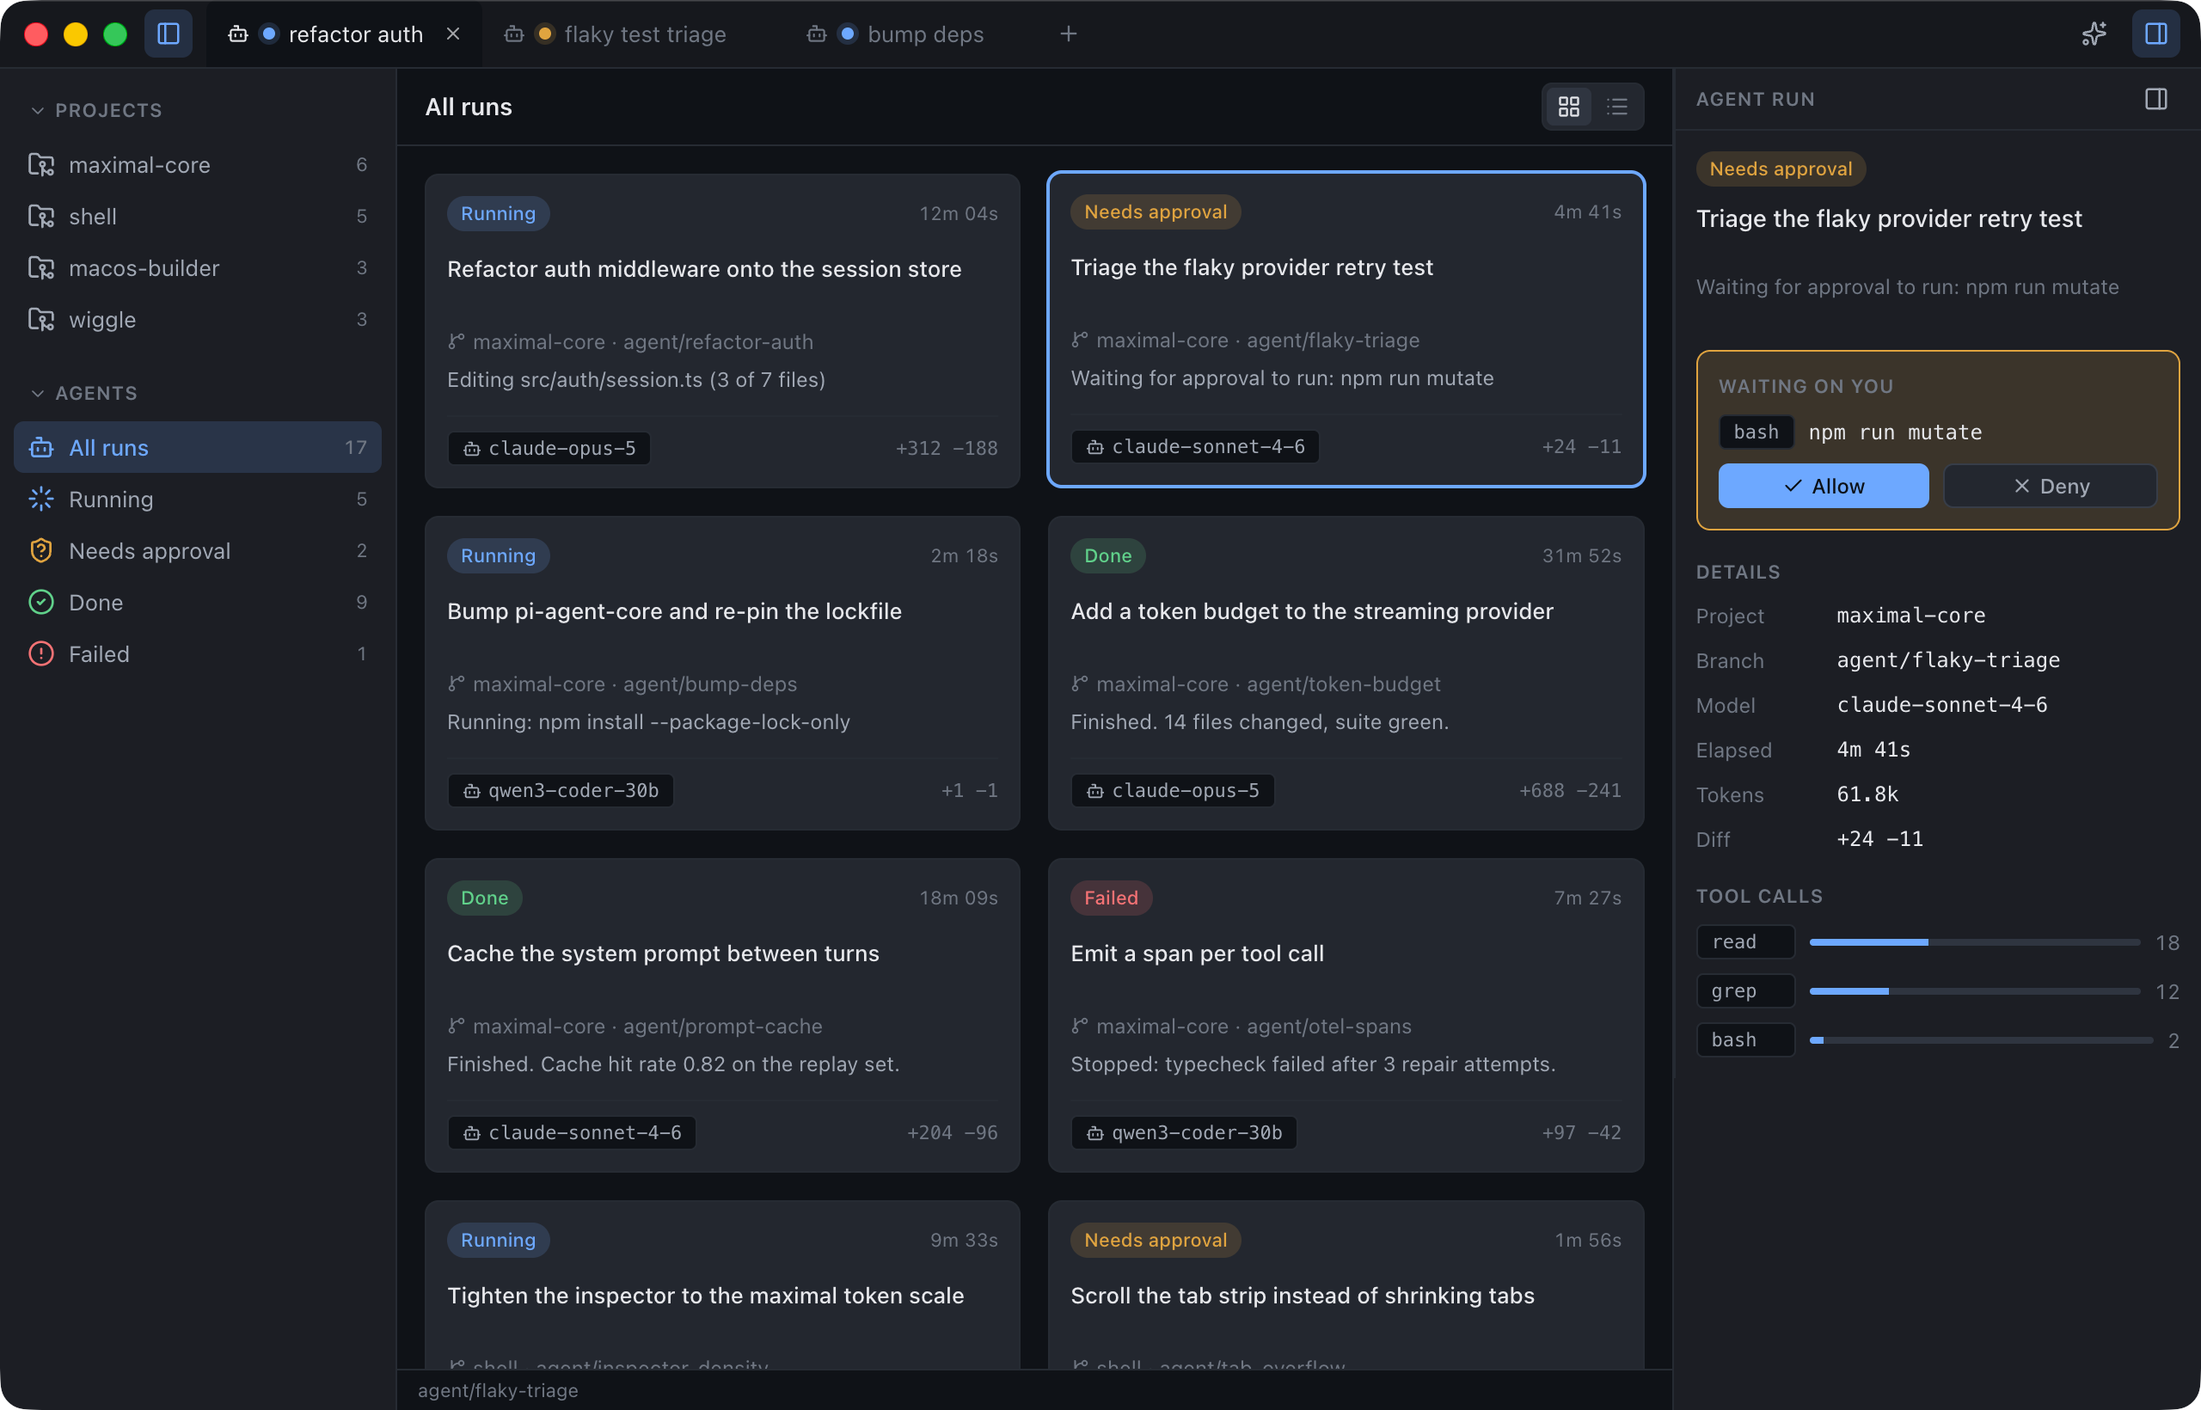
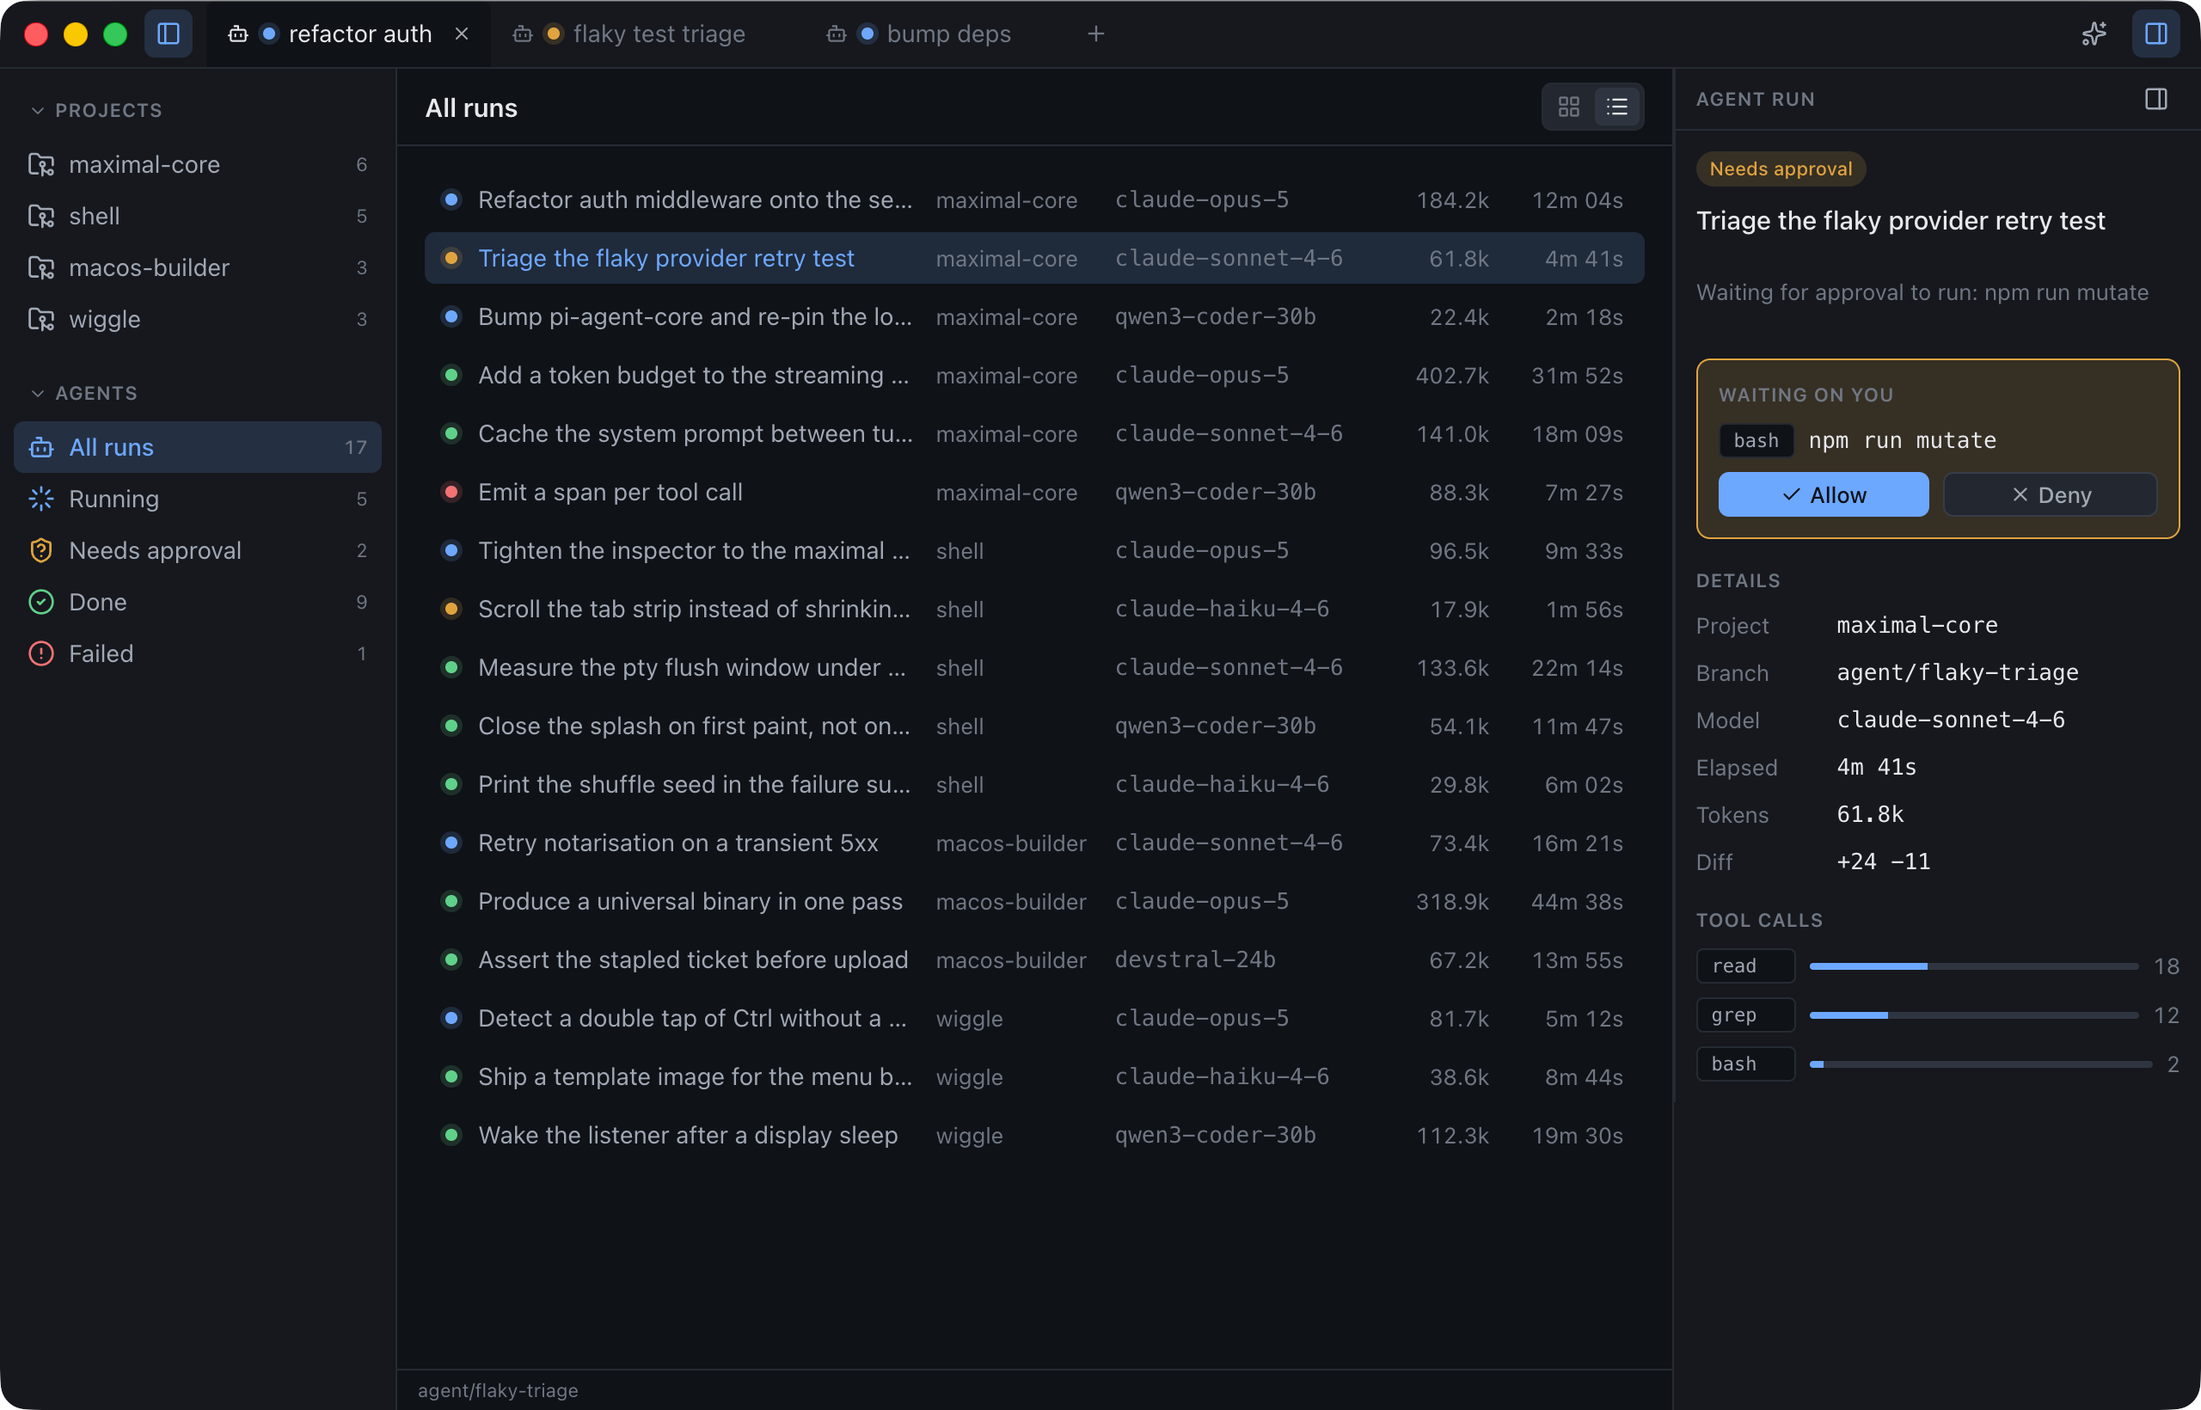
Open the shell up, and let demo mode run beside it
Five things, all from the audit.

The side panels were carrying their own background, which in dark sits
lighter than the title bar and much lighter than the canvas. That made each
one a filled slab, and a rail holding nine items above six hundred pixels
of nothing read as an unfinished container. They match the title bar now,
so the frame is one surface and the canvas is the only thing that looks
like content. The empty stretch below the nav is just space.

The type ramp moved up one notch through the reading sizes: body 13 to 14,
secondary 12 to 13. The old ramp was sized for a dense utility and the
whole shell read as small print. `--text-xs` did not move, because it is
only the all-caps labels and the counts, which belong under the content.

Bigger type costs height, so the fleet grid lost the argument it was
already losing: it fits seven of seventeen runs where the list fits all of
them. An operator watching agents wants to see every one and what it is
waiting on, so the fleet opens as a list. The grid is a click away, and the
production shell still opens on the grid, because documents are things you
recognise by sight and runs are things you read.

Two things the larger ramp broke and this fixes. The list columns were
measured against a 12px monospace and clipped the version off every model
name. And `.card__sub` clips to one line, which is right for a card
subtitle and wrong for the settings prose that borrowed it, so that gains a
[…]

diff --git a/src/renderer/styles/shell.css b/src/renderer/styles/shell.css
@@ -130,12 +130,22 @@ button {
   min-height: 0;
 }
 
+/*
+ * The side panels are chrome, not content.
+ *
+ * They used to carry `--bg-panel`, which in dark sits lighter than the title
+ * bar and much lighter than the canvas. That made each one a filled slab, and
+ * a rail holding nine items above six hundred pixels of nothing read as an
+ * unfinished container rather than as margin. Matching the title bar makes the
+ * whole frame one surface, so the canvas is the only thing that looks like
+ * content and the empty stretch below the nav is just space.
+ */
 .panel {
   display: flex;
   flex-direction: column;
   min-height: 0;
   min-width: 0;
-  background: var(--bg-panel);
+  background: var(--bg-app);
 }
 
 .panel--canvas {
@@ -272,8 +282,8 @@ button {
   align-items: center;
   gap: var(--space-2);
   padding: 0 var(--space-2) 0 var(--space-3);
-  max-width: 180px;
-  min-width: 92px;
+  max-width: 200px;
+  min-width: 96px;
   color: var(--text-muted);
   white-space: nowrap;
   border-radius: var(--radius-input) var(--radius-input) 0 0;
@@ -391,7 +401,7 @@ button {
 
 .grid {
   display: grid;
-  gap: var(--space-4);
+  gap: var(--space-3);
   grid-template-columns: repeat(auto-fill, minmax(190px, 1fr));
 }
 
@@ -459,6 +469,20 @@ button {
   overflow: hidden;
   text-overflow: ellipsis;
   white-space: nowrap;
+}
+
+/*
+ * The same muted size, but as prose.
+ *
+ * `.card__sub` clips to one line, which is right for a card subtitle and wrong
+ * for an explanation. The settings panel borrowed it and lost the end of every
+ * sentence, which the larger type ramp made obvious.
+ */
+.card__sub--wrap {
+  overflow: visible;
+  text-overflow: clip;
+  white-space: normal;
+  line-height: var(--leading-base);
 }
 
 .row {
@@ -774,11 +798,18 @@ button {
 /* ---- grid mode ---- */
 
 .grid--runs {
-  grid-template-columns: repeat(auto-fill, minmax(268px, 1fr));
+  grid-template-columns: repeat(auto-fill, minmax(248px, 1fr));
 }
 
+/*
+ * The card pays for the larger type out of its own spacing.
+ *
+ * A fleet grid that shows seven of seventeen runs is losing to the list view,
+ * which shows all of them. Tightening the stack rather than shrinking the text
+ * keeps the reading size and buys back the rows.
+ */
 .run-card {
-  gap: var(--space-3);
+  gap: var(--space-2);
   padding: var(--space-3);
 }
 
@@ -858,17 +889,17 @@ button {
 }
 
 .run-row__model {
-  width: 126px;
+  width: 148px;
   font-family: var(--font-mono);
 }
 
 .run-row__tokens {
-  width: 52px;
+  width: 58px;
   text-align: right;
 }
 
 .run-row__elapsed {
-  width: 60px;
+  width: 66px;
   text-align: right;
 }
 
@@ -1024,4 +1055,50 @@ button {
 .waiting__meta {
   font-size: var(--text-sm);
   color: var(--text-muted);
+}
+
+/* ------------------------------------------------------------ scrollbars */
+
+/*
+ * A quiet scrollbar.
+ *
+ * The default one is sized and coloured for a document, and it became the
+ * loudest thing on the canvas once the side panels stopped competing with it.
+ * This keeps it legible and lets it fade into the surface it sits on.
+ */
+.canvas,
+.nav,
+.inspector__body {
+  scrollbar-width: thin;
+  scrollbar-color: var(--border-strong) transparent;
+}
+
+.canvas::-webkit-scrollbar,
+.nav::-webkit-scrollbar,
+.inspector__body::-webkit-scrollbar {
+  width: 10px;
+  height: 10px;
+}
+
+.canvas::-webkit-scrollbar-thumb,
+.nav::-webkit-scrollbar-thumb,
+.inspector__body::-webkit-scrollbar-thumb {
+  background: var(--border-strong);
+  /* Inset the thumb so it reads as a hint rather than a rail. */
+  border: 3px solid transparent;
+  background-clip: content-box;
+  border-radius: var(--radius-pill);
+}
+
+.canvas::-webkit-scrollbar-thumb:hover,
+.nav::-webkit-scrollbar-thumb:hover,
+.inspector__body::-webkit-scrollbar-thumb:hover {
+  background: var(--text-muted);
+  background-clip: content-box;
+}
+
+.canvas::-webkit-scrollbar-track,
+.nav::-webkit-scrollbar-track,
+.inspector__body::-webkit-scrollbar-track {
+  background: transparent;
 }

diff --git a/src/main/index.ts b/src/main/index.ts
@@ -10,6 +10,7 @@ import { clearBadge } from './native/notifications.js';
 import { isAgentBusy, shutdownAgent } from './native/agent.js';
 import {
   getPreferences,
+  isDemo,
   isE2E,
   isE2EQuiet,
   onPreferencesChanged,
@@ -22,10 +23,27 @@ import { createMainWindow } from './windows/main-window.js';
 import { destroyOverlay, toggleOverlay } from './windows/overlay.js';
 import { closeSplashWindow, createSplashWindow } from './windows/splash.js';
 
-// Under test, use a throwaway profile. This must happen before `whenReady`,
-// and it keeps a test run from clobbering a developer's real preferences.
+/*
+ * Pick the profile before anything else touches it.
+ *
+ * This has to happen before `whenReady`, and before the single instance lock
+ * below, because the lock is derived from the profile directory. Two builds
+ * pointing at the same directory are the same application as far as Chromium
+ * is concerned, and the second one to start will not get a window.
+ *
+ * - Under test: a throwaway directory, so a run never clobbers a developer's
+ *   real preferences.
+ * - In demo mode: a sibling directory that persists. The demo shell is a
+ *   different application with different data, and giving it its own profile
+ *   means `npm start` and `STUFFBUCKET_DEMO=1 npm start` can run side by side.
+ *   They could not before, and the failure was silent: the second process took
+ *   no lock, quit, and asked the first to come forward, so a developer saw a
+ *   clean build and a window that was not the one they had just asked for.
+ */
 if (isE2E()) {
   app.setPath('userData', mkdtempSync(path.join(tmpdir(), 'stuffbucket-e2e-')));
+} else if (isDemo()) {
+  app.setPath('userData', `${app.getPath('userData')}-demo`);
 }
 
 let mainWindow: BrowserWindow | undefined;
@@ -197,8 +215,14 @@ function bootstrap(): void {
 
 /* ------------------------------------------------------------- lifecycle */
 
-// A second instance should activate the first, not open another window.
+// A second instance should activate the first, not open another window. Say
+// so, because the alternative is a developer watching a clean build produce a
+// window that belongs to a process they started an hour ago.
 if (!app.requestSingleInstanceLock()) {
+  console.error(
+    `Another instance already holds ${app.getPath('userData')}. ` +
+      'Bringing it forward instead of opening a second window.',
+  );
   app.quit();
 } else {
   app.on('second-instance', activate);

diff --git a/src/renderer/components/Inspector.tsx b/src/renderer/components/Inspector.tsx
@@ -81,7 +81,9 @@ export function Inspector({
             <Field label="Size" value={item.size} />
           </section>
         ) : (
-          <p className="card__sub">Select an item to inspect its properties.</p>
+          <p className="card__sub card__sub--wrap">
+            Select an item to inspect its properties.
+          </p>
         )}
 
         {prefs && (
@@ -111,7 +113,7 @@ export function Inspector({
               onChange={(next) => onPrefChange({ agentTools: next })}
               testId="pref-agent-tools"
             />
-            <p className="card__sub">
+            <p className="card__sub card__sub--wrap">
               Lets the overlay agent read, write, and run shell commands in your
               working directory.
             </p>
@@ -167,7 +169,7 @@ export function Inspector({
           >
             Check for updates
           </button>
-          <p className="card__sub">{updateLabel(updateStatus)}</p>
+          <p className="card__sub card__sub--wrap">{updateLabel(updateStatus)}</p>
         </section>
 
         {versions && (

diff --git a/e2e/demo-stills.spec.ts b/e2e/demo-stills.spec.ts
@@ -84,6 +84,10 @@ test('01 projects and agents, grid mode', async () => {
   await expect(window.locator('[data-testid="left-nav"]')).toContainText(
     'maximal-core',
   );
+  // The fleet opens as a list, so this asks for the grid rather than assuming
+  // it. A still that depends on a default breaks when the default is the thing
+  // being changed.
+  await window.click('[data-testid="mode-grid"]');
   await expect(window.locator('[data-testid="view-grid"]')).toBeVisible();
   await expect(window.locator('.run-card')).toHaveCount(17);
   await expect(window.locator('[data-testid="inspector"]')).toContainText('Fleet');
@@ -112,6 +116,7 @@ test('03 several agent sessions and a terminal open', async () => {
 
   // Back to a session tab, so the canvas shows the fleet behind the strip.
   await window.locator('.tab').first().click();
+  await window.click('[data-testid="mode-grid"]');
   await expect(window.locator('[data-testid="view-grid"]')).toBeVisible();
   await expect(window.locator('[data-testid="inspector"]')).toContainText(
     'Refactor auth middleware',

diff --git a/src/main/windows/main-window.ts b/src/main/windows/main-window.ts
@@ -2,6 +2,8 @@ import path from 'node:path';
 
 import { BrowserWindow, shell } from 'electron';
 
+import { isDemo } from '../native/preferences.js';
+
 /**
  * The main application window.
  *
@@ -9,19 +11,6 @@ import { BrowserWindow, shell } from 'electron';
  * the React shell can draw its own toolbar into that strip. The renderer gets
  * window controls through the `window:action` IPC channel.
  */
-
-/**
- * Demo mode, for screenshots and screen recordings.
- *
- * `STUFFBUCKET_DEMO=1` loads the renderer with `?demo=1`, and the renderer
- * branches on `location.search`. It travels as a query string rather than as an
- * IPC channel on purpose: the contract in `src/shared/ipc.ts` is checked by an
- * exhaustiveness proof and a tripwire test, and a presentation flag does not
- * belong there. Unset, every path below is the production path.
- */
-function isDemo(): boolean {
-  return process.env['STUFFBUCKET_DEMO'] === '1';
-}
 
 export function createMainWindow(): BrowserWindow {
   const window = new BrowserWindow({

diff --git a/src/renderer/styles/tokens.css b/src/renderer/styles/tokens.css
@@ -17,13 +17,23 @@
   --font-mono:
     ui-monospace, SFMono-Regular, 'SF Mono', Menlo, Consolas, monospace;
 
-  /* ---- Type ramp ---- */
+  /*
+   * ---- Type ramp ----
+   *
+   * Lifted one notch through the reading sizes: body from 13px to 14px and
+   * secondary text from 12px to 13px. The old ramp was sized for a dense
+   * utility, and at a glance the whole shell read as small print.
+   *
+   * `--text-xs` deliberately did not move. It is only used by the all-caps
+   * section labels and the numeric counts, which are meant to sit under the
+   * content rather than beside it.
+   */
   --text-xs: 0.6875rem;
-  --text-sm: 0.75rem;
-  --text-base: 0.8125rem;
-  --text-md: 0.875rem;
-  --text-lg: 1rem;
-  --text-xl: 1.25rem;
+  --text-sm: 0.8125rem;
+  --text-base: 0.875rem;
+  --text-md: 0.9375rem;
+  --text-lg: 1.0625rem;
+  --text-xl: 1.375rem;
   --weight-base: 400;
   --weight-md: 500;
   --weight-lg: 600;

diff --git a/src/renderer/components/demo/DemoApp.tsx b/src/renderer/components/demo/DemoApp.tsx
@@ -56,7 +56,16 @@ const DEMO_SHELL = navigator.userAgent.includes('Windows')
 
 export function DemoApp() {
   const [view, setView] = useState<DemoViewId>(DEFAULT_VIEW);
-  const [mode, setMode] = useState<ViewMode>('grid');
+  /*
+   * A fleet opens as a queue, not as a wall of cards.
+   *
+   * The grid fits seven of seventeen runs, and an operator watching agents
+   * wants to see all of them and what each is waiting on. The list does that
+   * in one screen. The grid is still a click away, and the production shell
+   * still opens on the grid, because documents are things you recognise by
+   * sight and runs are things you read.
+   */
+  const [mode, setMode] = useState<ViewMode>('list');
   const [selectedId, setSelectedId] = useState<string>();
   const [prefs] = usePreferences();
 

diff --git a/src/main/native/preferences.ts b/src/main/native/preferences.ts
@@ -74,6 +74,21 @@ export function isE2E(): boolean {
 }
 
 /**
+ * True when the window should mount the demo shell.
+ *
+ * `STUFFBUCKET_DEMO=1` loads the renderer with `?demo=1`, and the renderer
+ * branches on `location.search`. It travels as a query string rather than as
+ * an IPC channel on purpose: the contract in `src/shared/ipc.ts` is checked by
+ * an exhaustiveness proof and a tripwire test, and a presentation flag does
+ * not belong there.
+ *
+ * It also earns a profile of its own. See `src/main/index.ts`.
+ */
+export function isDemo(): boolean {
+  return process.env['STUFFBUCKET_DEMO'] === '1';
+}
+
+/**
  * True when the suite should stay off the user's screen.
  *
  * A test run drives a real application on a real desktop. Left alone it paints

diff --git a/src/renderer/components/demo/RunInspector.tsx b/src/renderer/components/demo/RunInspector.tsx
@@ -82,7 +82,7 @@ export function RunInspector({
             <section className="inspector__section">
               <StatusChip run={run} />
               <p className="run-detail__task">{run.task}</p>
-              <p className="card__sub">{run.step}</p>
+              <p className="card__sub card__sub--wrap">{run.step}</p>
             </section>
 
             {run.status === 'blocked' && (
@@ -131,7 +131,7 @@ export function RunInspector({
           </>
         ) : (
           <>
-            <p className="card__sub">Select a run to inspect it.</p>
+            <p className="card__sub card__sub--wrap">Select a run to inspect it.</p>
             <WaitingOnYou onSelect={onSelect} />
           </>
         )}

diff --git a/e2e/shell.spec.ts b/e2e/shell.spec.ts
@@ -91,8 +91,10 @@ scenario('grid and list modes swap the content layout', async () => {
 
   expect(gridStyles.display).toBe('grid');
   // The historical failure mode: the gap resolves to `normal` or `0px`,
-  // because the token never reached the element.
-  expect(gridStyles.gap).toBe('16px');
+  // because the token never reached the element. The number tracks
+  // `--space-3`, which the grid moved to when the type ramp grew and the
+  // cards needed the room back.
+  expect(gridStyles.gap).toBe('12px');
 });
 
 scenario('both side panels collapse and expand', async () => {
